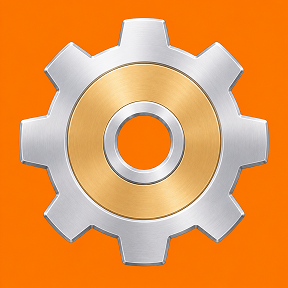
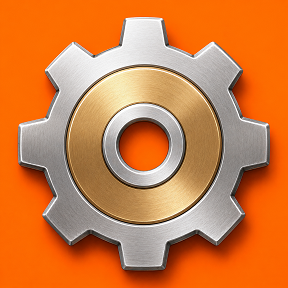
chore: harden 2.0.0 release validation
Skip generated base-technology extensions when a positive max-level setting is below the first continuation level that MIR would create. This prevents nonsensical prototypes where the generated technology level is higher than its own max_level and treats that configuration as an intentional no-op for the extension.

Strengthen dynamic lab-input expansion so future streams that opt into dynamic_items_from_lab_inputs and use top-level items without groups keep those static item targets when the generator synthesizes the first group. The existing science-pack productivity stream behavior is unchanged except for the safer helper semantics.

Make runtime validation require the expected Factorio log file before running fatal-marker and science-pack-productivity diagnostics checks. Missing logs now fail validation instead of silently skipping the evidence assertions.

Expand package validation so the committed 2.0.0 zip must include the top-level data-stage files, settings/defaults, base extension generator, stream modules, and the shared science-pack and recipe-matching helpers.

Update the architecture, compatibility, and 2.0.0 changelog documentation for the stricter max-level handling, runtime log requirement, package validation coverage, and dynamic item expansion behavior.
[…]

diff --git a/docs/compatibility.md b/docs/compatibility.md
@@ -85,9 +85,9 @@ Set `$env:FACTORIO_LOG` or pass `-FactorioLog` when the Factorio log is not at t
 
 The runtime check copies this repo and the fixture mods into a temporary user-data mod directory, adds test-only dependencies from the copied mod to the fixture mods for deterministic load order, writes a fixture `mod-list.json`, and asks Factorio to create a save. It is intentionally a load/prototype validation harness, not a gameplay test.
 
-The runtime fixture run also enables the generation diagnostics report in the copied mod and asserts that science-pack productivity generated with the custom item-based fixture science pack included.
+The runtime fixture run also enables the generation diagnostics report in the copied mod and asserts that science-pack productivity generated with the custom item-based fixture science pack included. The expected Factorio log file is part of the validation evidence; if it is missing, runtime validation fails.
 
-Static validation requires the committed release zip at `dist/more-infinite-research_2.0.0.zip`. The package must use the `more-infinite-research_2.0.0/` root, contain matching `info.json` metadata, include locale and documentation files, and avoid build, fixture, script, Git, and temporary/editor artifacts.
+Static validation requires the committed release zip at `dist/more-infinite-research_2.0.0.zip`. The package must use the `more-infinite-research_2.0.0/` root, contain matching `info.json` metadata, include locale, documentation, top-level data-stage files, and core prototype modules, and avoid build, fixture, script, Git, and temporary/editor artifacts.
 
 ## Fixture Designs
 

diff --git a/docs/architecture.md b/docs/architecture.md
@@ -46,7 +46,7 @@ The stream table is assembled by `prototypes/streams/init.lua` from:
 
 Future expansion should add more stream domain modules rather than returning to one large config file.
 
-Generated recipe-productivity streams can set `dynamic_items_from_lab_inputs = true` when their target item set should include every active lab input discovered during `data-final-fixes.lua`. The science-pack productivity stream uses this so custom science packs can receive productivity effects without hard-coded mod dependencies.
+Generated recipe-productivity streams can set `dynamic_items_from_lab_inputs = true` when their target item set should include every active lab input discovered during `data-final-fixes.lua`. The science-pack productivity stream uses this so custom science packs can receive productivity effects without hard-coded mod dependencies. If a future dynamic stream uses top-level `items` without `groups`, those items are copied into the generated group before lab inputs are appended.
 
 ## Compatibility Profiles
 